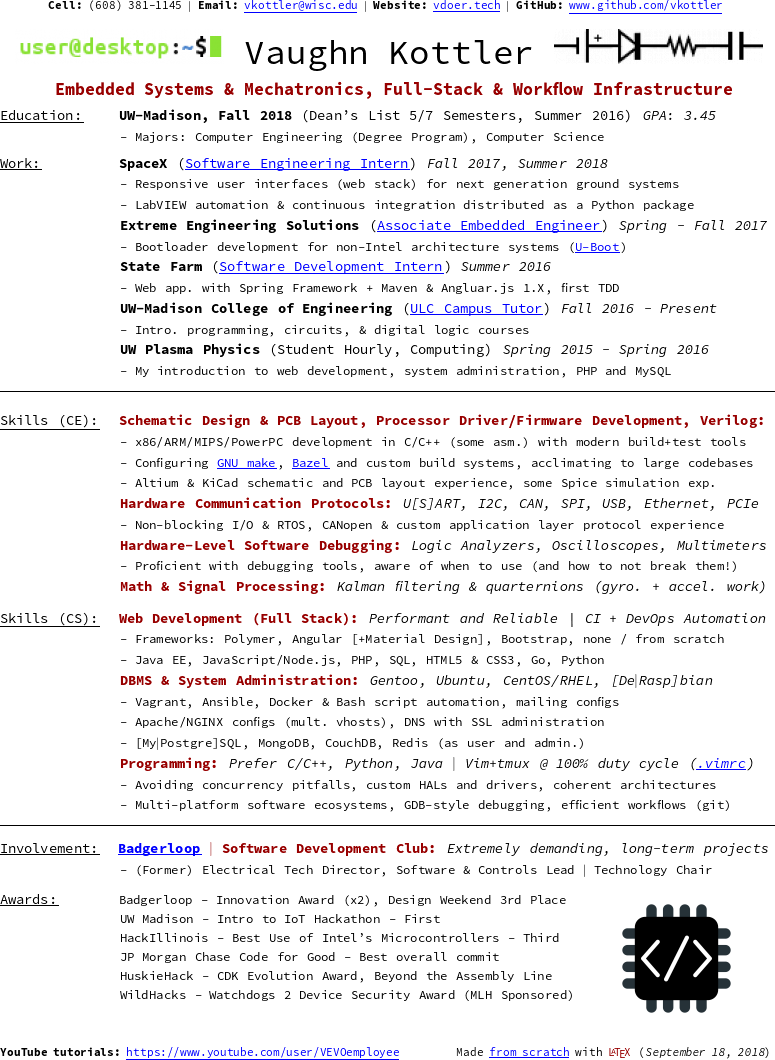
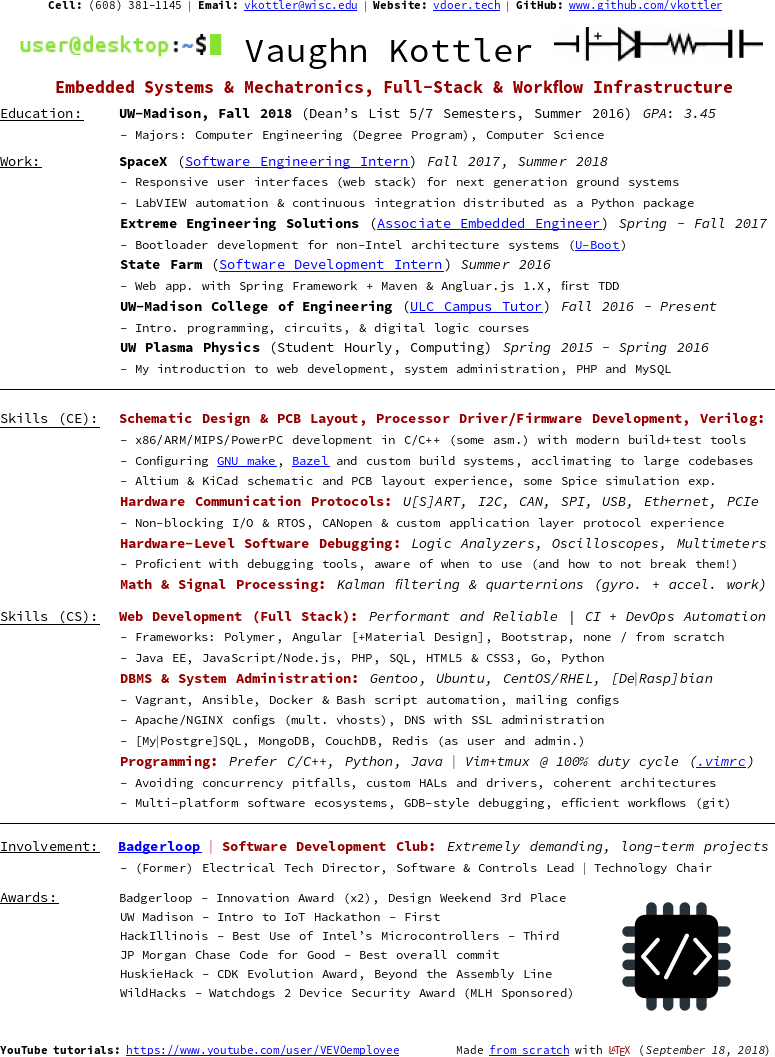
Small change to link underlining

diff --git a/main.tex b/main.tex
@@ -46,7 +46,7 @@
 \newcommand{\HR}{{\centering\noindent\rule{7.75in}{0.5pt}}\break}
 
 % Link styling: blue and underlined
-\newcommand{\LINK}[1]{{\color{blue}\underline{\url{#1}}}}
+\newcommand{\LINK}[1]{{\color{blue}\underline{\smash{\url{#1}}}}}
 
 % Link reference styling: blue, underlined with underline close to text
 \newcommand{\HREF}[2]{{\color{blue}\underline{\smash{\href{#1}{#2}}}}}
